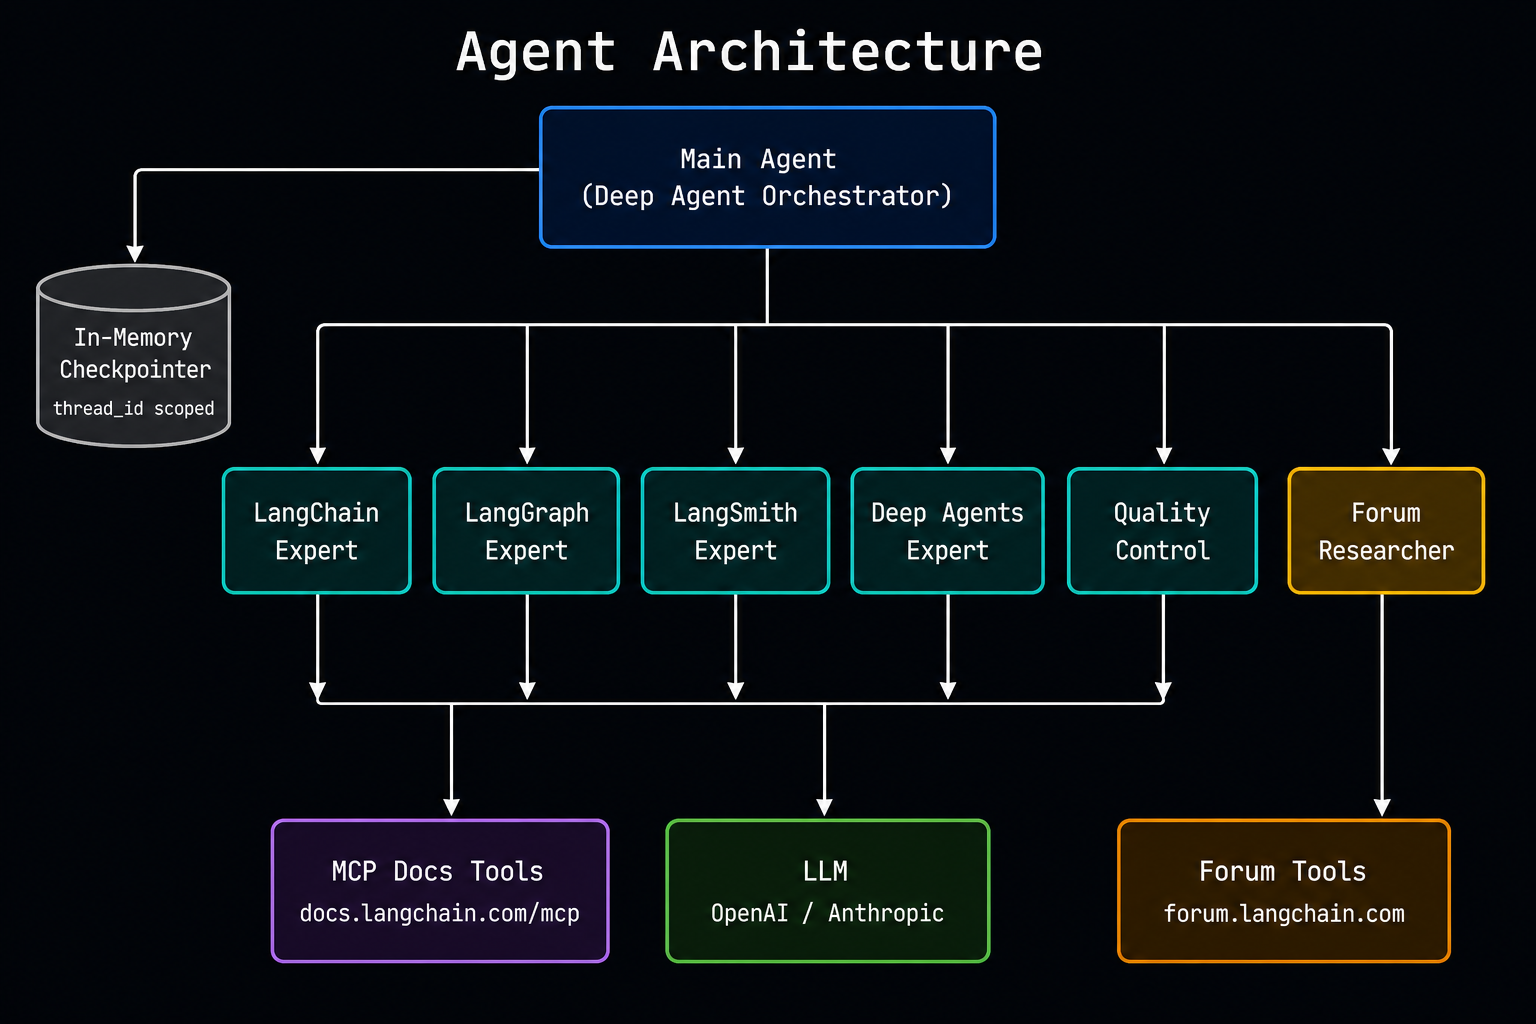
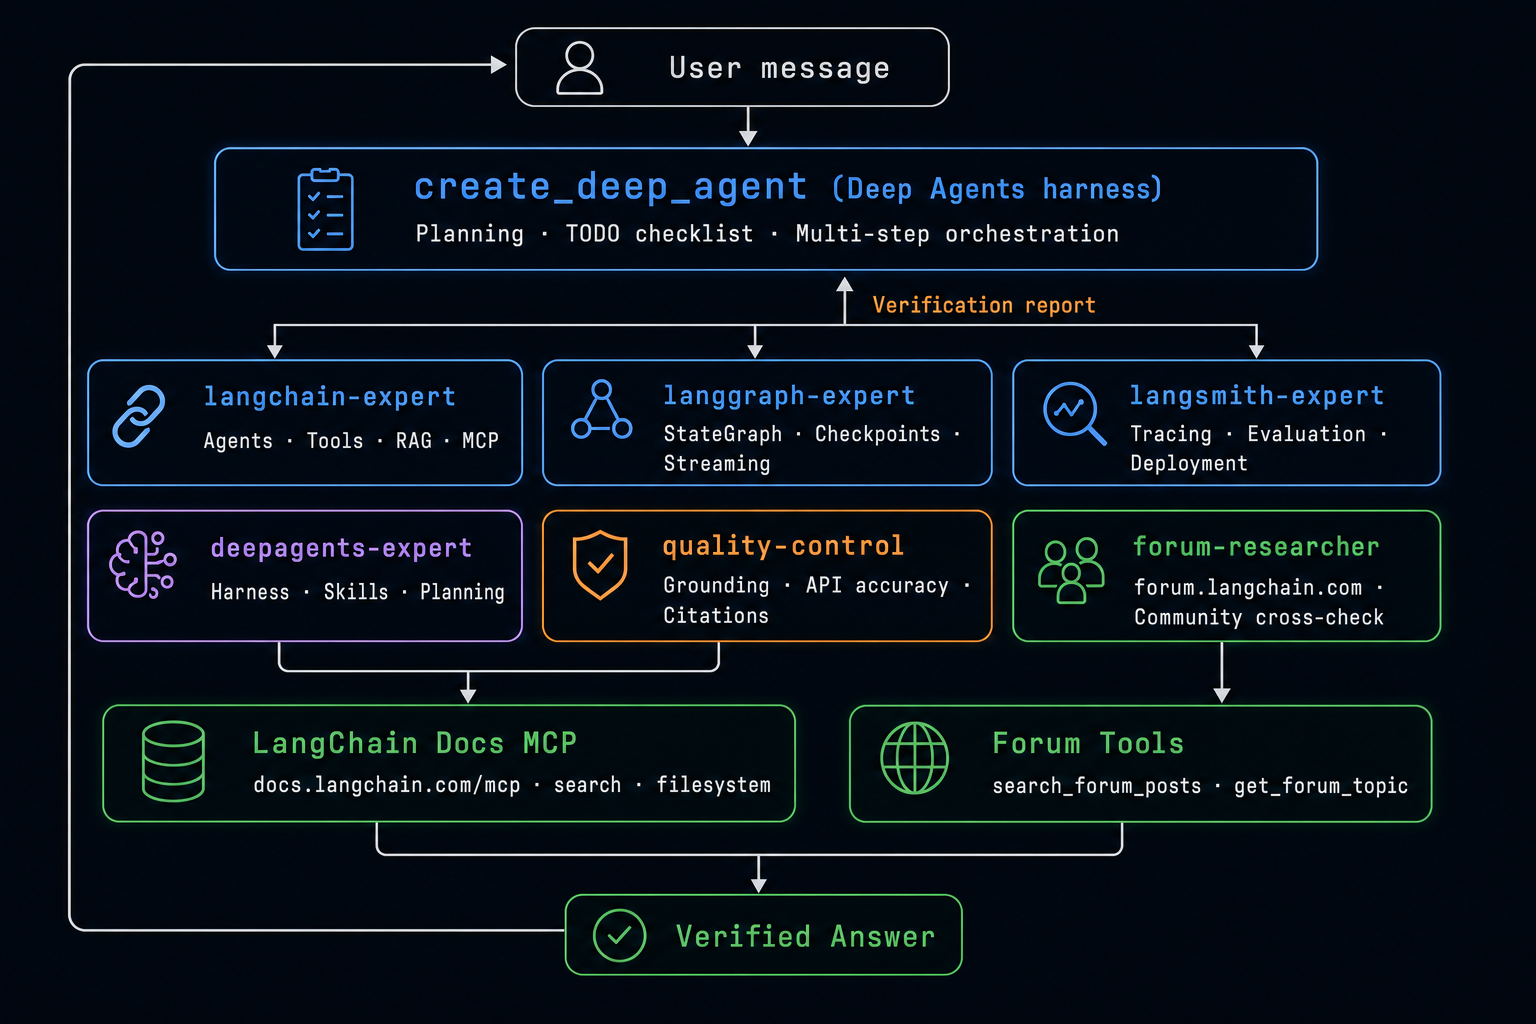
docs

diff --git a/frontend/src/lib/langgraphClient.ts b/frontend/src/lib/langgraphClient.ts
@@ -5,8 +5,8 @@ import { Client } from "@langchain/langgraph-sdk";
  *
  * The SDK uses the `URL` constructor internally, which requires an absolute URL.
  * - Dev (default): resolve `/langgraph` against the current origin so Vite can
- *   proxy it to the Agent Server (e.g. http://localhost:2024).
- * - Direct: set `VITE_LANGGRAPH_API_URL=http://localhost:2024` (requires CORS).
+ *   proxy it to the Agent Server (`langgraph up` runs on http://localhost:8123).
+ * - Direct: set `VITE_LANGGRAPH_API_URL=http://localhost:8123` (requires CORS).
  */
 function resolveApiUrl(): string {
   const fromEnv = import.meta.env.VITE_LANGGRAPH_API_URL?.trim();
